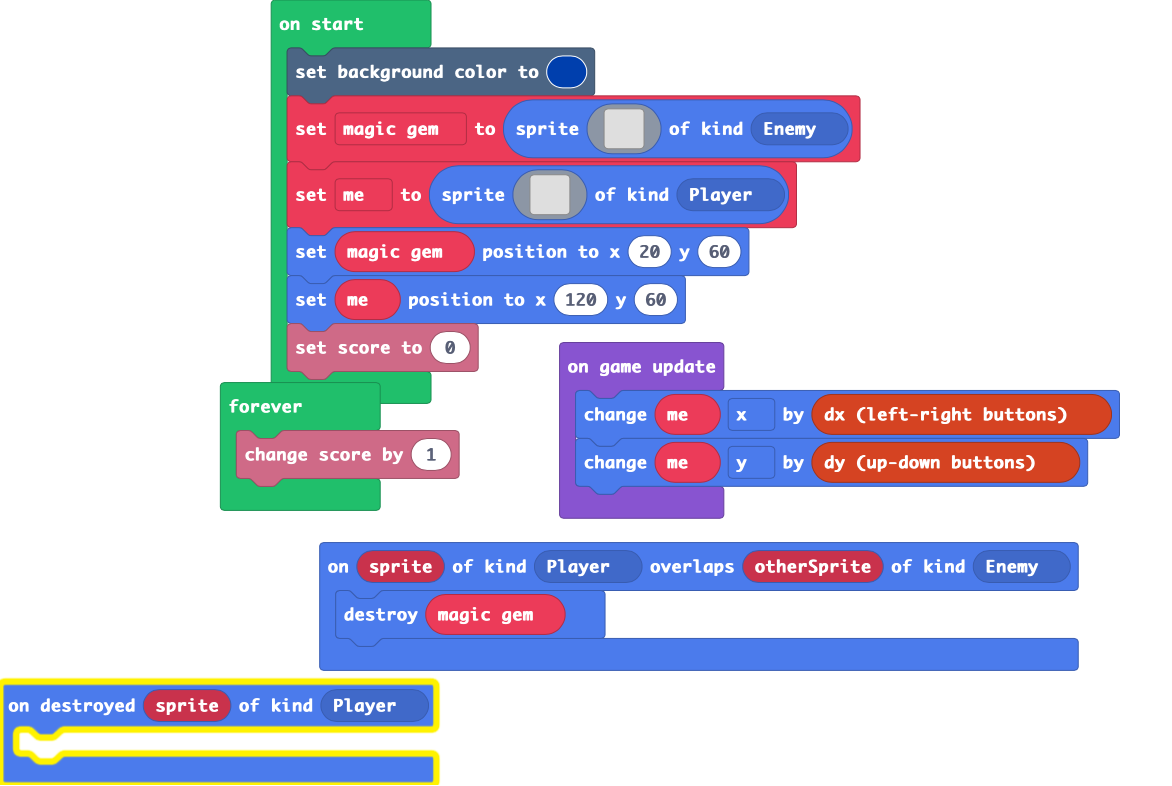
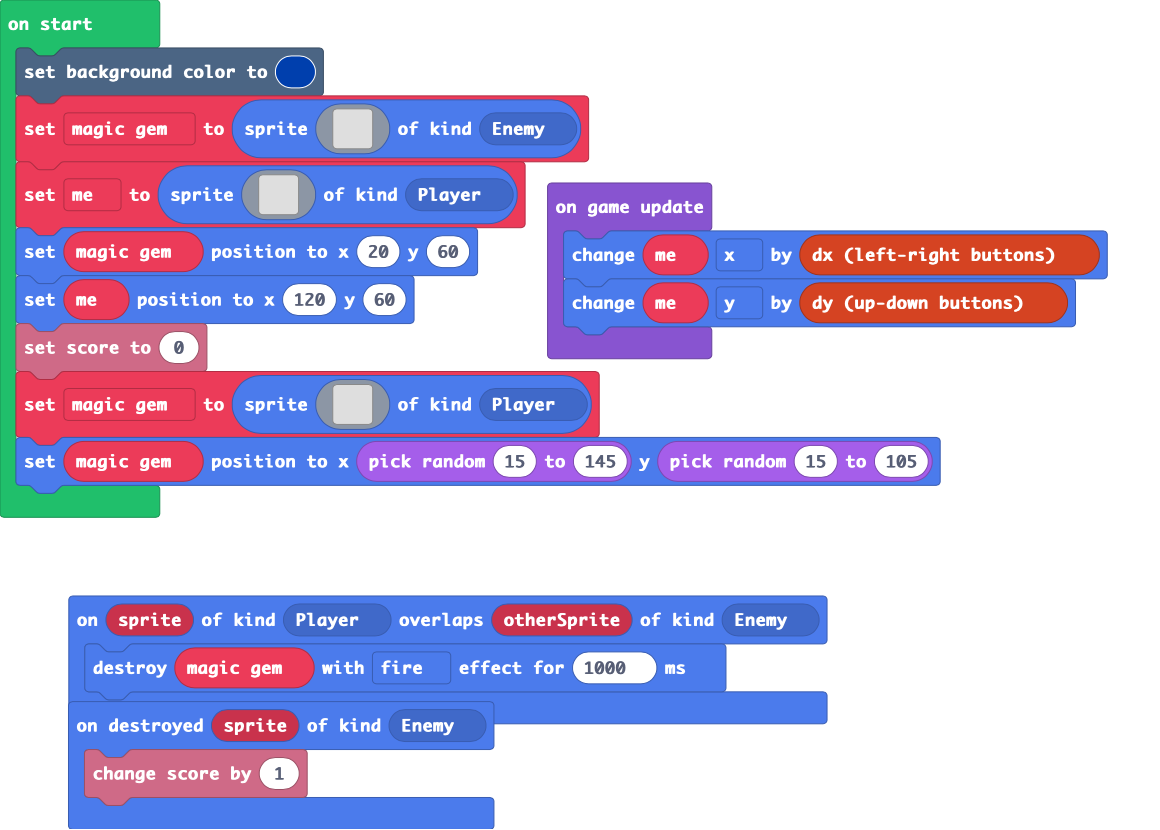
Update main.blocks, main.ts

diff --git a/main.ts b/main.ts
@@ -1,8 +1,8 @@
-sprites.onDestroyed(SpriteKind.Player, function (sprite) {
-	
+sprites.onDestroyed(SpriteKind.Enemy, function (sprite) {
+    info.changeScoreBy(1)
 })
 sprites.onOverlap(SpriteKind.Player, SpriteKind.Enemy, function (sprite, otherSprite) {
-    magic_gem.destroy()
+    magic_gem.destroy(effects.fire, 1000)
 })
 let magic_gem: Sprite = null
 scene.setBackgroundColor(8)
@@ -45,10 +45,26 @@ let me = sprites.create(img`
 magic_gem.setPosition(20, 60)
 me.setPosition(120, 60)
 info.setScore(0)
+magic_gem = sprites.create(img`
+    . . . . . . . . . . . . . . . . 
+    . . . . . . . . . . . . . . . . 
+    . . . . . . . . . . . . . . . . 
+    . . . . . . . . . . . . . . . . 
+    . . . . . . . . . . . . . . . . 
+    . . . . . . . c c c . . . . . . 
+    . . . . . . a b a a . . . . . . 
+    . . . . . c b a f c a c . . . . 
+    . . . . c b b b f f a c c . . . 
+    . . . . b b f a b b a a c . . . 
+    . . . . c b f f b a f c a . . . 
+    . . . . . c a a c b b a . . . . 
+    . . . . . . c c c c . . . . . . 
+    . . . . . . . c . . . . . . . . 
+    . . . . . . . . . . . . . . . . 
+    . . . . . . . . . . . . . . . . 
+    `, SpriteKind.Player)
+magic_gem.setPosition(randint(15, 145), randint(15, 105))
 game.onUpdate(function () {
     me.x += controller.dx()
     me.y += controller.dy()
-})
-forever(function () {
-    info.changeScoreBy(1)
 })
